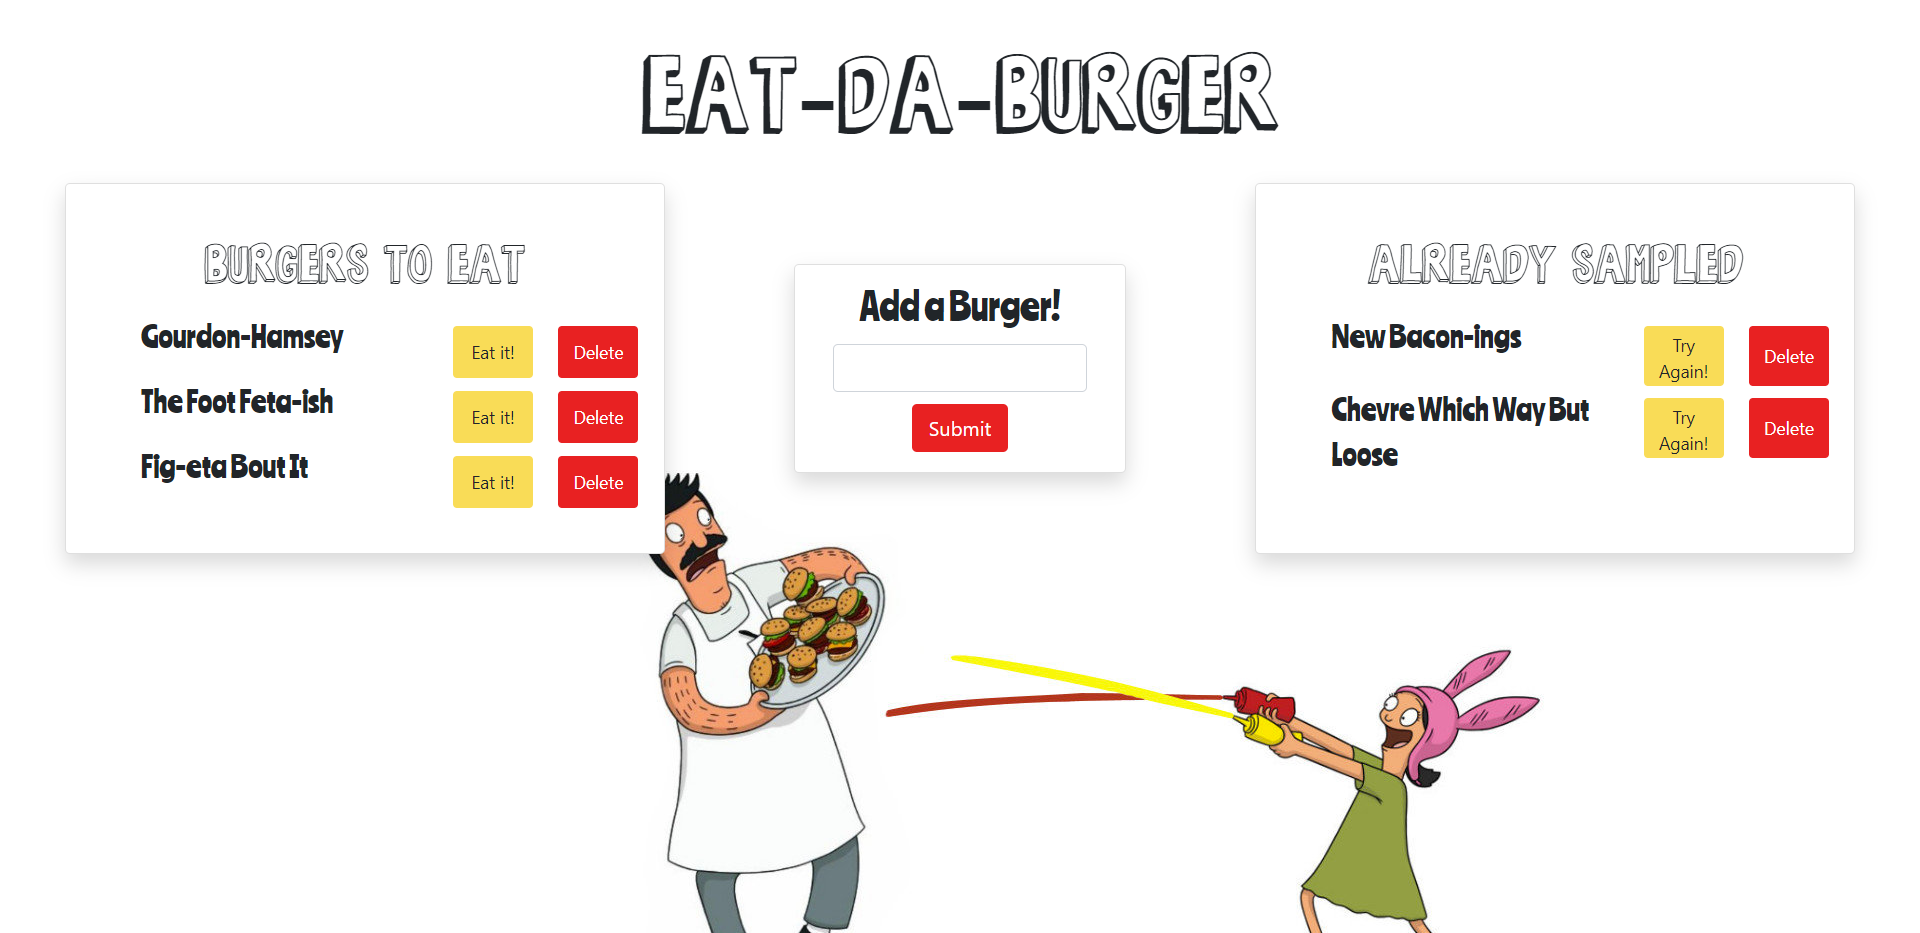
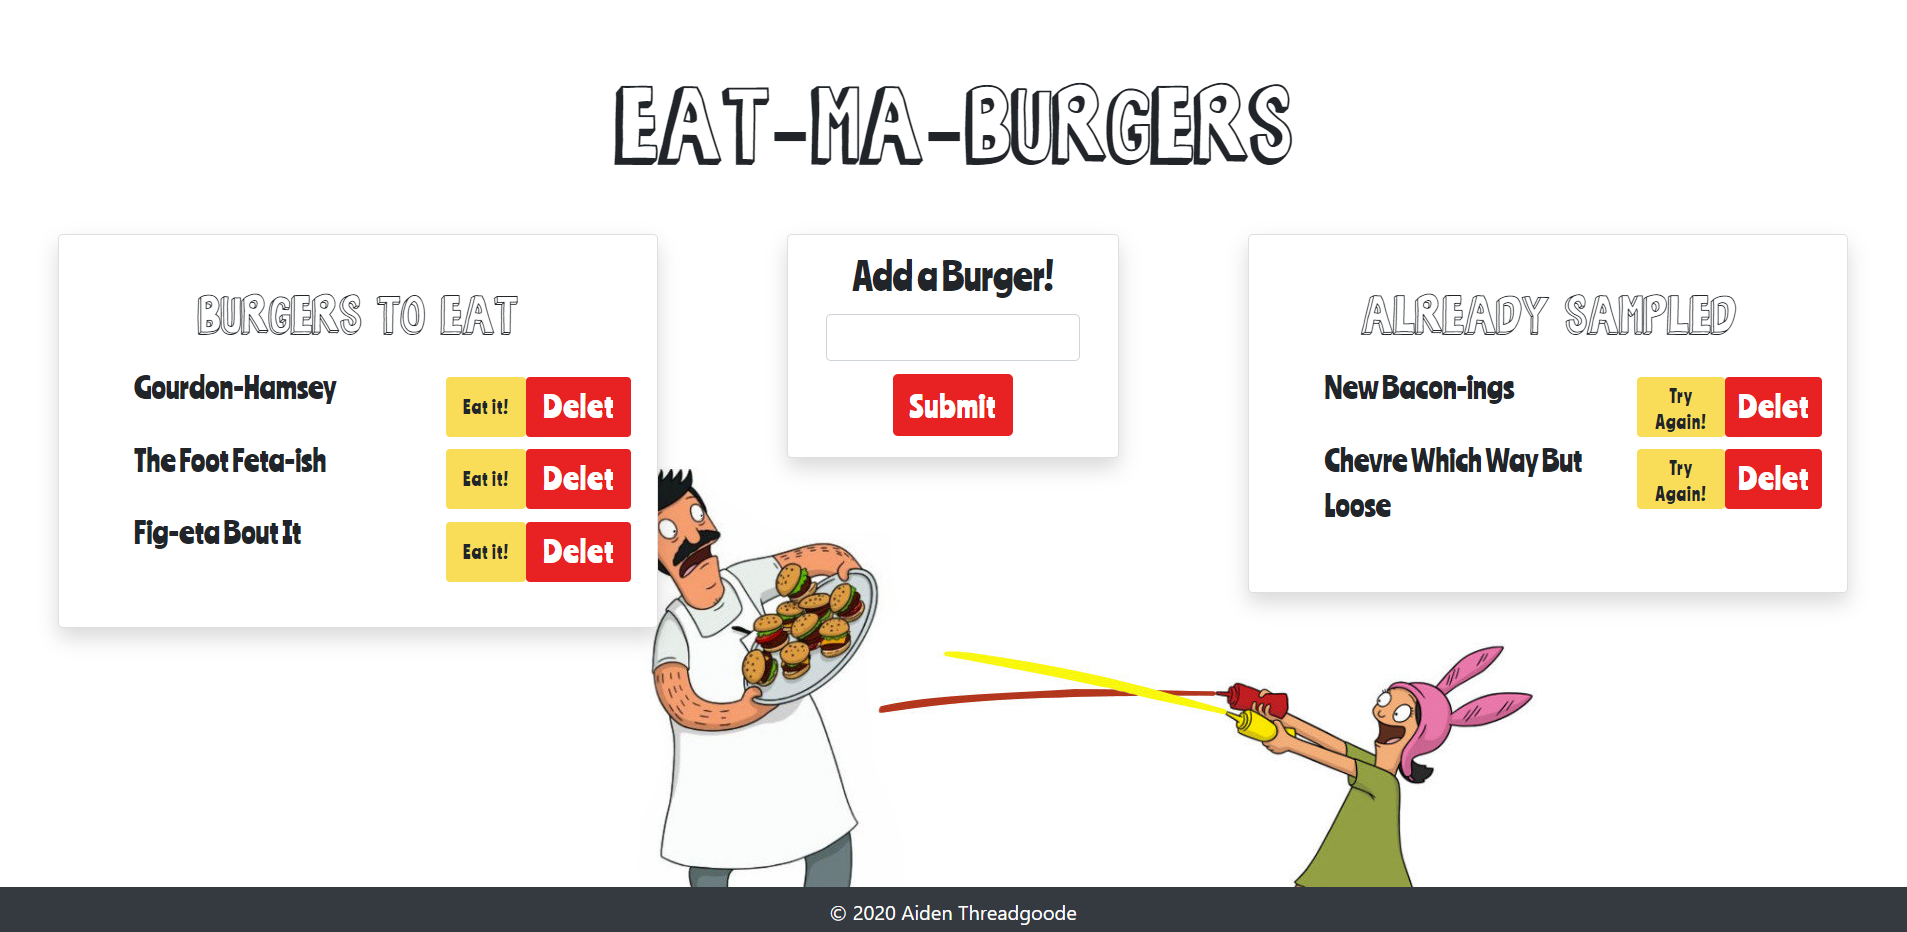
updated MD with new image

diff --git a/README.md b/README.md
@@ -1,50 +1,54 @@
 
-# Eat-Da-Burger 
+# Eat-Ma-Burgers
 [![License: MIT](https://img.shields.io/badge/License-MIT-green.svg)](https://choosealicense.com/licenses/mit/)
 
 
-[Start Screen for Program](./assets/images/demo.png)
-##### Link to Deployed Application: (link to come!)
+![Start Screen for Program](./public/assets/img/front-page.png)
+
+##### Deployed Link: [Check it out on Heroku!](https://eat-ma-burgers.herokuapp.com/)
     
 ## Description
-Here is where my description will go.
+***Eat-Da-Burger!*** is a restaurant app that lets users input the names of burgers they'd like to eat. When the user inputs a burger name, it is displayed on the left side, under "Burgers to Eat" with buttons enabling the user to `Try it!` or `Delete` it if they don't like it. When the user clicks `Try it!` the burger is moved to the right side, under "Already Sampled." 
 
 ---
 
 #### Table of Contents
 - [Description](#description)
 - [User Story](#user)
-- [Installation](#installation)
 - [Usage](#usage)
-- [Tests](#tests)
 - [Demo](#demo)
 - [Technologies Used](#technologies)
+- [Source](#sources)
 - [License](#license)
-- [Contributing](#contributing)
 - [Questions](#questions)
 
 ---
 
 ### User Story
-AS A USER...
 
-### Installation
-Install steps with ``` code ``` go here.
+```
+AS A USER, I want to be able to add, save and try out burger ideas
+
+I WANT to be able to be able delete the burgers that I've written
+
+SO THAT I can keep coming up with fresh burger specials!
+```
 
 ### Usage
-Here are your instructions for use.
+Fee free to add new burger specials, try out any that catch your eye and if you create something you don't love, don't worry, you can delete it!
 
-### Tests
-N/A
 
 ### Demo 
 *Demo to come!*
 
 ### Technologies Used
-- Technologies to be filled in later.
+- NodeJs
+- ExpressJs
+- MySQL & MySQL2
+- Express Handlebars
 
-### Contributing
-If you'd like to contribute to this application, feel free to submit a pull request.
+#### Sources
+- ["Bob's Burgers Font" by Jade Garrow](https://www.urbanfonts.com/fonts/Bob_s_Burgers.font)
 
 #### License
 This project is licensed under MIT. 
